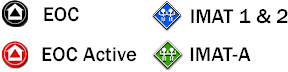
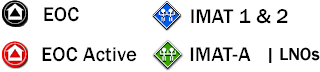
legend change

Changed region(s): [[0.0, 0.5556, 1.0, 0.9722], [0.4688, 0.0, 1.0, 0.4444], [0.0, 0.0, 0.2812, 0.3889]]

diff --git a/cov19/index.html b/cov19/index.html
@@ -238,7 +238,7 @@ var boundary = L.esri.featureLayer({url:'https://services.arcgis.com/XG15cJAlne2
 var overlays = {
     "<span style='margin-left:1em;'>Incident Facilities / Current Events</span><br><img style='margin-left:2.5em;' height=40 width=180 src='./img/currentEvents.png'/>": dailyEvents,
     "<span style='margin-left:1em;'>Community Based Testing Sites (CBTS)<br><img style='margin-left:2.5em;' height=50 src='./img/drivethru.png'/>": driveThruTesting,
-    "<span style='margin-left:1em;'>Shipping Location | LNOs<br><img style='margin-left:4.5em;' height=50 src='./img/bus_lno.png'/>": bus,
+    "<span style='margin-left:1em;'>Shipping Location | LNOs<br><img style='margin-left:4.5em;' height=50 src='./img/bus.png'/>": bus,
     "<span style='margin-left:1em;'>Affected Counties/Parishes<br><img style='margin-left:2.5em;' height=50 src='./img/affected.png'/>": aoi
 };
 L.control.layers(null, overlays,{position:"bottomright",collapsed:false}).addTo(map);
